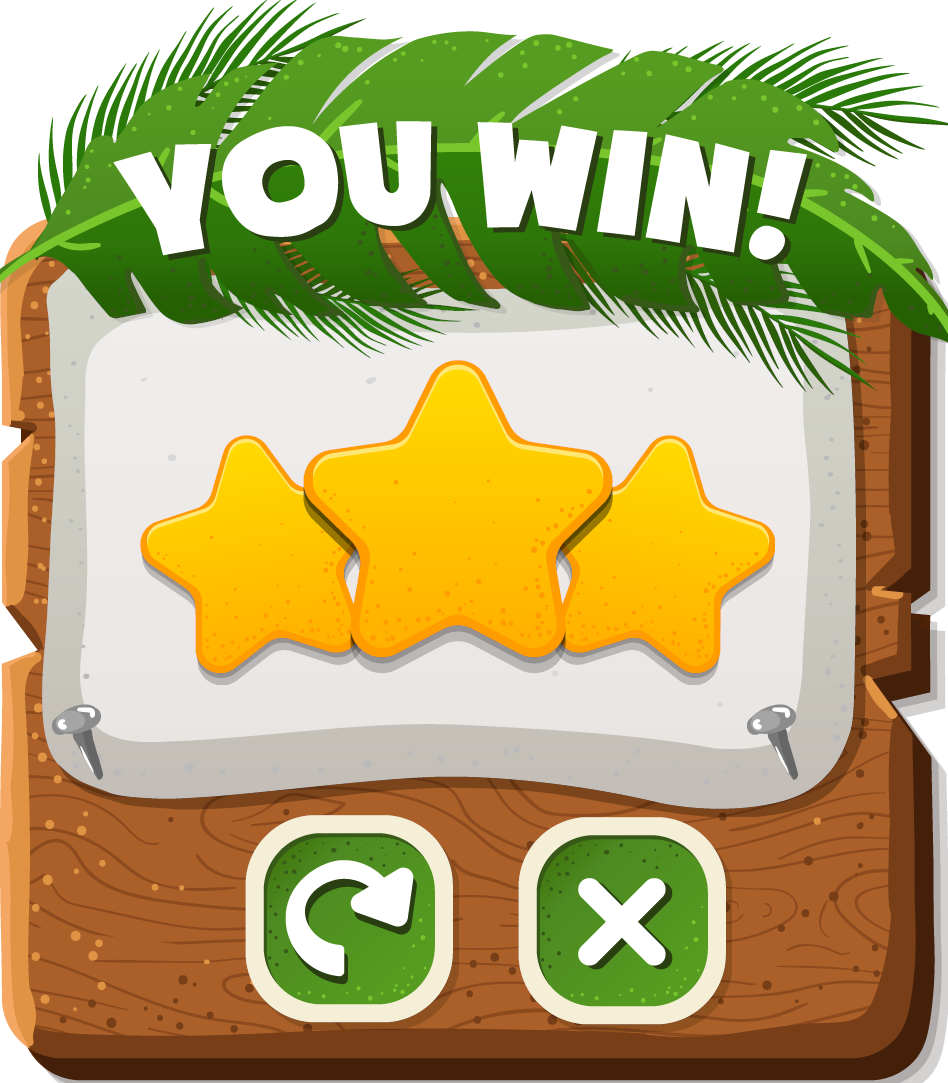
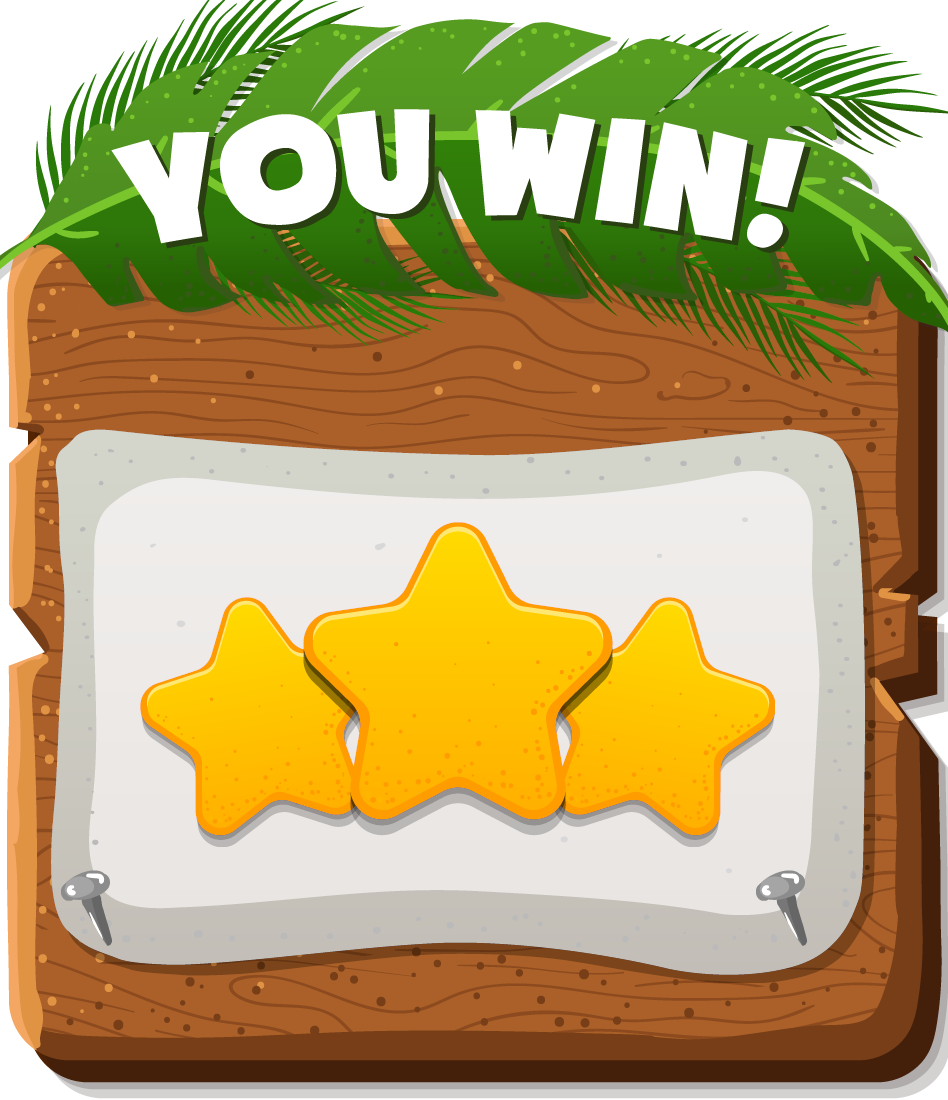
feat(ui): add start end end screens
Implement `WinComponent` and `LoseComponent` to render the end screen.
Change items images.
Delete unnecessary assets.
Fix `README.md`
Fix some coding style errors.

diff --git a/tests/generate_maze_test.py b/tests/generate_maze_test.py
@@ -6,7 +6,9 @@ from src.domain.maze.entity.player import Player
 
 
 def test_if_maze_creation_is_successful():
-    maze: Maze = Maze(5, 5, "Mac Gyver", "Guard", ['ether', 'needle', 'wood'])
+    maze: Maze = Maze(
+        5, 5, "Mac Gyver", "Guard", ['ether', 'needle', 'plastic_tube']
+    )
     assert len(maze.items) == 3
     assert maze.x == 5
     assert maze.y == 5
@@ -21,7 +23,7 @@ def test_if_maze_creation_is_successful():
 
 def test_if_x_and_x_are_too_small():
     with pytest.raises(AssertionError):
-        Maze(2, 2, "Mac Gyver", "Guard", ['ether', 'needle', 'wood'])
+        Maze(2, 2, "Mac Gyver", "Guard", ['ether', 'needle', 'plastic_tube'])
 
 
 def test_if_number_of_items_is_not_equal_to_3():
@@ -31,19 +33,19 @@ def test_if_number_of_items_is_not_equal_to_3():
 
 def test_if_enemy_is_case():
     with pytest.raises(AssertionError):
-        Maze(5, 5, "Mac Gyver", "", ['ether', 'needle', 'wood'])
+        Maze(5, 5, "Mac Gyver", "", ['ether', 'needle', 'plastic_tube'])
 
 
 def test_if_enemy_has_only_space():
     with pytest.raises(AssertionError):
-        Maze(5, 5, "Mac Gyver", " ", ['ether', 'needle', 'wood'])
+        Maze(5, 5, "Mac Gyver", " ", ['ether', 'needle', 'plastic_tube'])
 
 
 def test_if_player_is_case():
     with pytest.raises(AssertionError):
-        Maze(5, 5, "", "Guard", ['ether', 'needle', 'wood'])
+        Maze(5, 5, "", "Guard", ['ether', 'needle', 'plastic_tube'])
 
 
 def test_if_player_has_only_space():
     with pytest.raises(AssertionError):
-        Maze(5, 5, " ", "Guard", ['ether', 'needle', 'wood'])
+        Maze(5, 5, " ", "Guard", ['ether', 'needle', 'plastic_tube'])

diff --git a/tests/move_test.py b/tests/move_test.py
@@ -8,7 +8,9 @@ from src.domain.maze.value_object.direction import Direction
 
 
 def test_if_player_win():
-    maze: Maze = Maze(3, 3, "Mac Gyver", "Guard", ['ether', 'needle', 'wood'])
+    maze: Maze = Maze(
+        3, 3, "Mac Gyver", "Guard", ['ether', 'needle', 'plastic_tube']
+    )
     maze_resolver: MazeResolver = MazeResolver(maze)
 
     def resolve(case: Case, back: bool):
@@ -28,7 +30,9 @@ def test_if_player_win():
 
 
 def test_if_player_lose():
-    maze: Maze = Maze(7, 7, "Mac Gyver", "Guard", ['ether', 'needle', 'wood'])
+    maze: Maze = Maze(
+        5, 5, "Mac Gyver", "Guard", ['ether', 'needle', 'plastic_tube']
+    )
 
     maze_resolver: MazeResolver = MazeResolver(maze).resolve(maze.end, False)
     for direction in maze_resolver.directions:
@@ -48,7 +52,7 @@ def test_if_failed_with_wrong_direction():
             5,
             "Mac Gyver",
             "Guard",
-            ['ether', 'needle', 'wood']
+            ['ether', 'needle', 'plastic_tube']
         )
         maze.player.move("fail")
 
@@ -60,6 +64,6 @@ def test_if_failed_with_bad_direction():
             5,
             "Mac Gyver",
             "Guard",
-            ['ether', 'needle', 'wood']
+            ['ether', 'needle', 'plastic_tube']
         )
         maze.player.move(Direction.DOWN)

diff --git a/src/user_interface/component/maze_component.py b/src/user_interface/component/maze_component.py
@@ -4,7 +4,9 @@ from pygame.sprite import Group
 from src.domain.maze.entity.maze import Maze
 from src.domain.maze.value_object.direction import Direction
 from src.user_interface.component.cell_component import CellComponent
+from src.user_interface.component.lose_component import LoseComponent
 from src.user_interface.component.progress_component import ProgressComponent
+from src.user_interface.component.win_component import WinComponent
 from src.user_interface.sprite.enemy_sprite import EnemySprite
 from src.user_interface.sprite.player_sprite import PlayerSprite
 
@@ -53,5 +55,13 @@ class MazeComponent:
                 CellComponent(cell, self.window).render()
 
             ProgressComponent(self.maze, self.window).render()
+
             self.group.draw(self.window)
+
+            if self.maze.player.finished:
+                if self.maze.player.win:
+                    WinComponent(self.window).render()
+                if not self.maze.player.win:
+                    LoseComponent(self.window).render()
+
             pygame.display.update()

diff --git a/src/user_interface/component/end_component.py b/src/user_interface/component/end_component.py
@@ -1,0 +1,24 @@
+import pygame
+
+from abc import ABC, abstractmethod
+
+
+class EndComponent(ABC):
+    def __init__(self, window: pygame.Surface):
+        self.window: pygame.Surface = window
+        self.x = window.get_width() / 2 - 131
+        self.y = window.get_height() / 2 - 150
+
+    def render(self):
+        self.window.blit(
+            pygame.transform.scale(
+                pygame.image.load(self.get_image()).convert_alpha(),
+                (262, 300)
+            ),
+            (self.x, self.y),
+            (0, 0, 262, 300)
+        )
+
+    @abstractmethod
+    def get_image(self) -> str:
+        pass

diff --git a/src/user_interface/component/progress_component.py b/src/user_interface/component/progress_component.py
@@ -18,7 +18,7 @@ class ProgressComponent:
         self.group: Group = pygame.sprite.Group()
         x: int = 150
         for item in self.maze.player.items:
-            self.item: BackpackItemSprite = BackpackItemSprite(item, x, 6)
+            self.item: BackpackItemSprite = BackpackItemSprite(item, x, 4)
             self.group.add(self.item)
             x += 50
 

diff --git a/main.py b/main.py
@@ -3,7 +3,7 @@ from src.user_interface.component.maze_component import MazeComponent
 
 
 def run():
-    maze: Maze = Maze(7, 7, "Mac Gyver", "Guard", ['ether', 'needle', 'woods'])
+    maze: Maze = Maze(7, 7, "Mac Gyver", "Guard", ['ether', 'needle', 'plastic_tube'])
     component: MazeComponent = MazeComponent(maze)
     component.render()
 

diff --git a/src/user_interface/component/lose_component.py b/src/user_interface/component/lose_component.py
@@ -1,0 +1,6 @@
+from src.user_interface.component.end_component import EndComponent
+
+
+class LoseComponent(EndComponent):
+    def get_image(self) -> str:
+        return 'assets/img/lose.png'

diff --git a/src/user_interface/component/win_component.py b/src/user_interface/component/win_component.py
@@ -1,0 +1,6 @@
+from src.user_interface.component.end_component import EndComponent
+
+
+class WinComponent(EndComponent):
+    def get_image(self) -> str:
+        return 'assets/img/win.png'

diff --git a/README.md b/README.md
@@ -35,7 +35,7 @@ make coding-style
 
 Lancez la série de tests unitaires :
 ```
-make tests
+make test
 ```
 
 Avec un reporting html :
